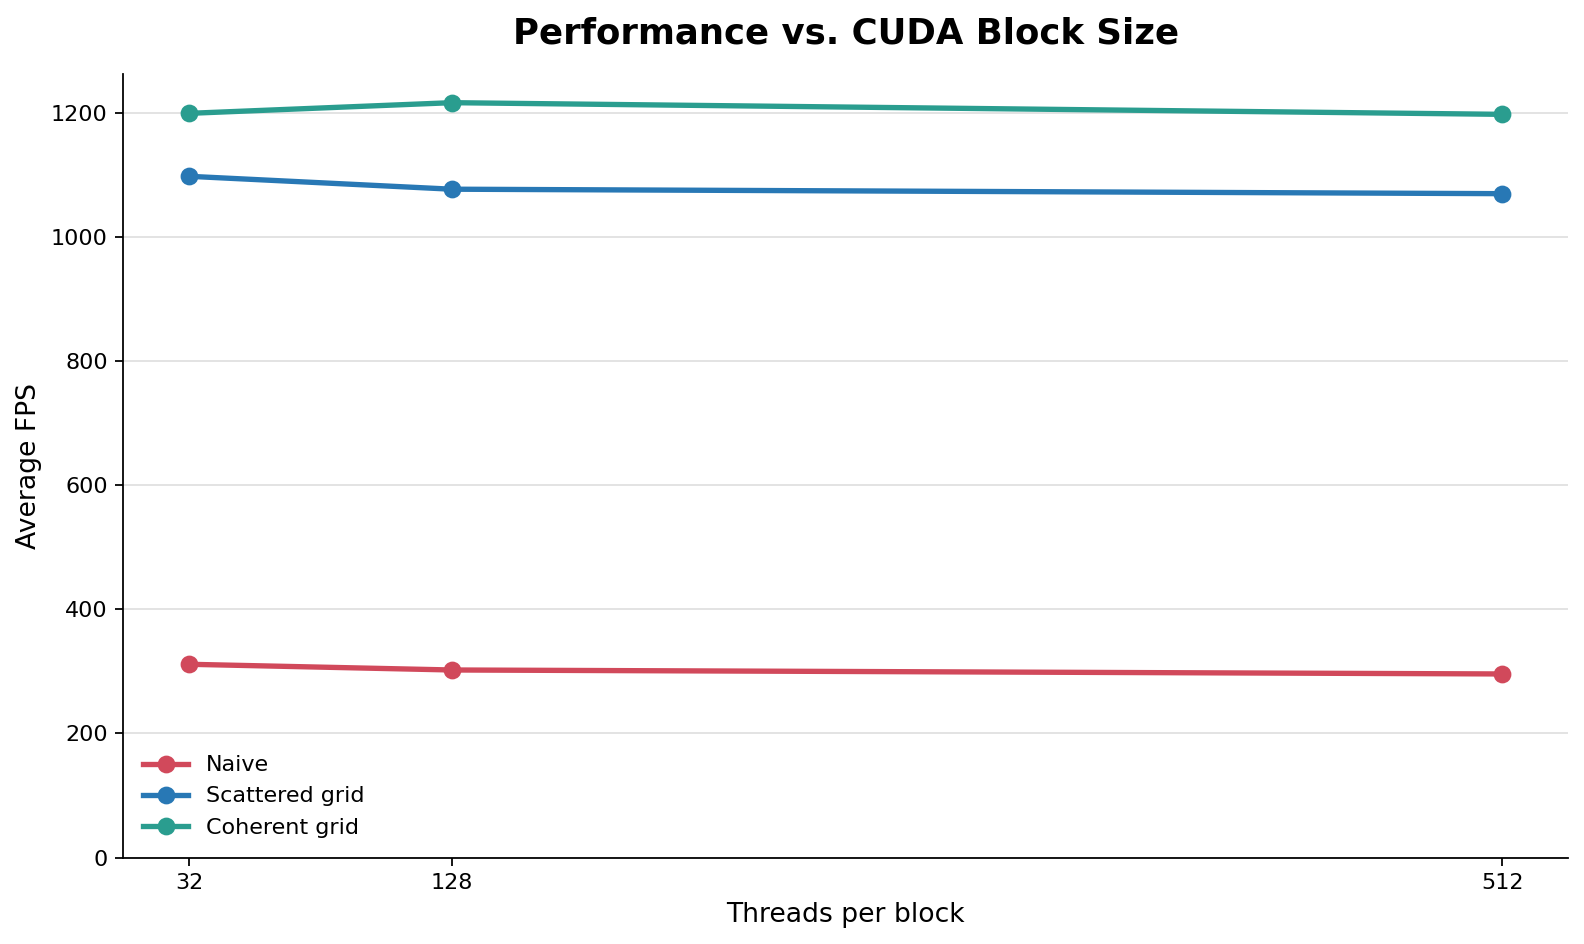
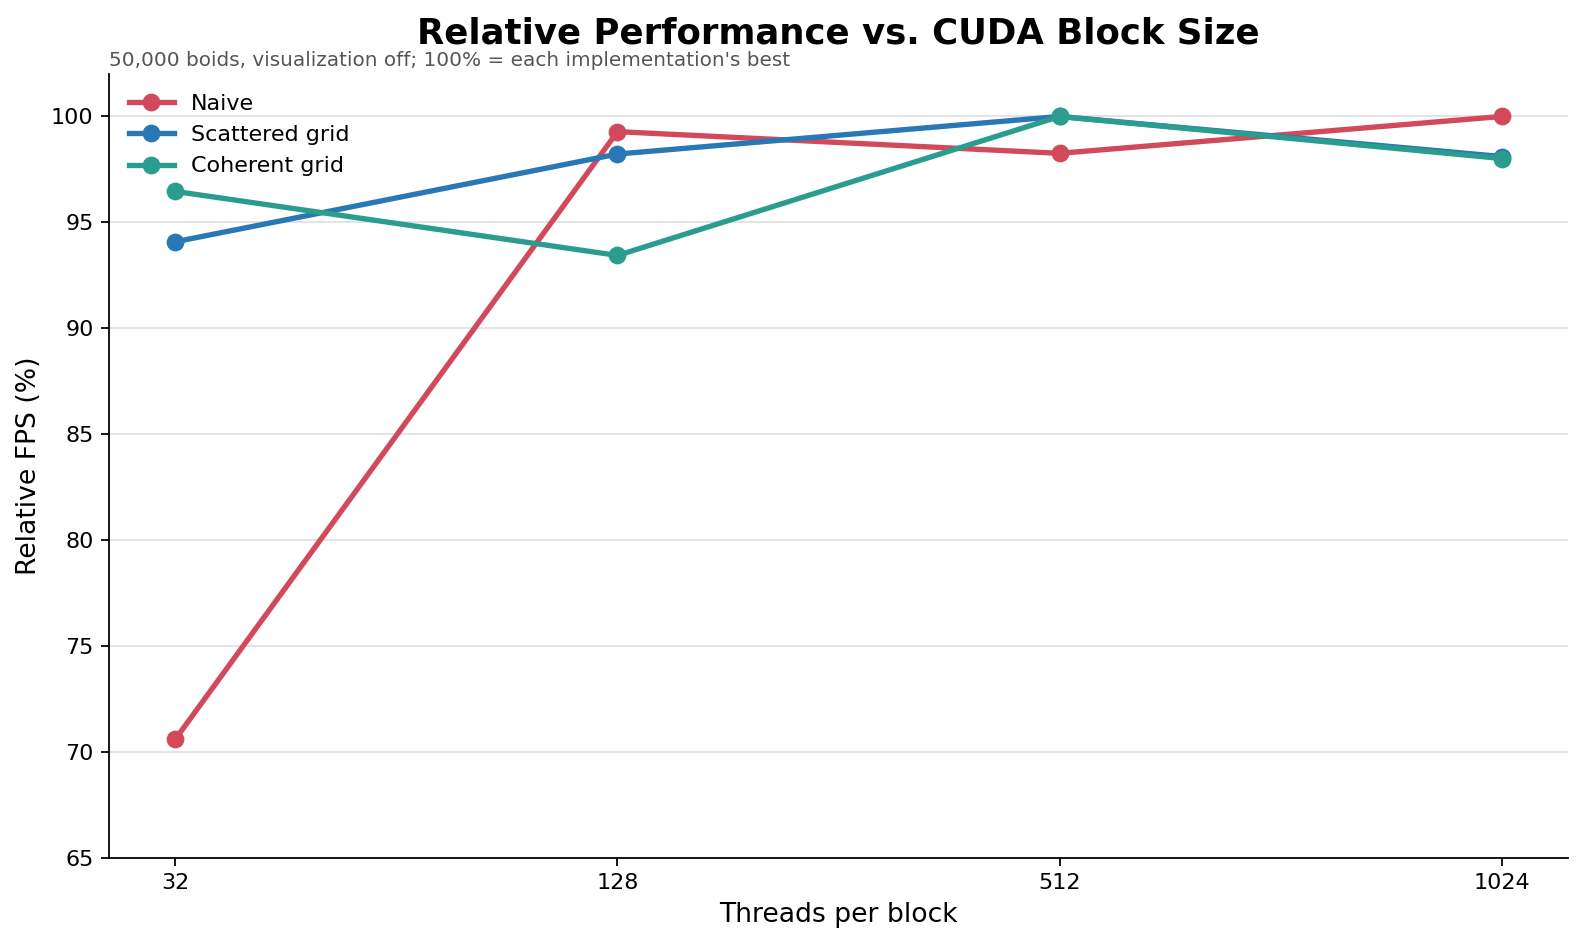
update the analysis

diff --git a/README.md b/README.md
@@ -14,83 +14,87 @@ This project implements Reynolds-style boid flocking with CUDA using cohesion, s
 - **Scattered grid:** boids are grouped by grid cell using sorted indices, but their position and velocity data remain scattered.
 - **Coherent grid:** position and velocity data are reordered by grid cell for more contiguous memory access.
 
+Separate input and output velocity buffers ensure that every boid reads a consistent state during each simulation step.
+
 ## Performance Analysis
 
 ### Methodology
 
-- Release x64
-- VSync and NVIDIA Max Frame Rate disabled
-- Five FPS readings averaged per configuration
-- Default block size: 128
-- Time step: 0.2
-- Fixed window size and camera
+- Build configuration: **Release x64**
+- Vertical synchronization: **Off**
+- NVIDIA Max Frame Rate: **Off**
+- Time step: **0.2**
+- Default block size: **128 threads**
+- Default grid configuration: **8-cell search with cell width $2r$**
+- The scaling graphs use one stabilized FPS reading per configuration after warm-up.
+- All comparisons used the same machine and executable window size.
 
-### Boid Count — Visualization Off
+### Effect of boid count without visualization
 
 ![Performance without visualization](images/performance_no_visualization.png)
 
-| Boids | Naive | Scattered | Coherent |
+| Boids | Naive FPS | Scattered FPS | Coherent FPS |
 |---:|---:|---:|---:|
-| 1,000 | 1093.8 | 1336.4 | 1434.2 |
-| 5,000 | 819.0 | 1145.2 | 1203.0 |
-| 20,000 | 302.2 | 1076.8 | 1216.2 |
+| 5,000 | 851.0 | 1144.0 | 1224.0 |
+| 10,000 | 519.0 | 1124.0 | 1205.0 |
+| 25,000 | 251.0 | 1063.0 | 1173.0 |
+| 50,000 | 102.0 | 860.0 | 1167.0 |
+| 100,000 | 25.2 | 589.0 | 1069.0 |
+| 200,000 | 8.2 | 281.0 | 634.0 |
+| 500,000 | 1.4 | 77.3 | 445.0 |
+| 1,000,000 | — | 20.6 | 187.0 |
 
-Naive performance decreases sharply as the number of boids increases because its neighbor search is $O(N^2)$. The grid methods scale better because each boid only checks nearby cells instead of the entire array.
+Naive performance decreases rapidly because doubling the boid count approximately quadruples the number of pairwise checks. The uniform-grid methods scale much better by limiting the search to nearby cells. They eventually slow as well because a fixed simulation volume causes more boids to occupy each cell. At one million boids, the coherent grid was about **9.1 times faster** than the scattered grid because its neighbor data is stored contiguously.
 
-From 1,000 to 20,000 boids, Naive FPS decreased by 72.4%, compared with 19.4% for Scattered and 15.2% for Coherent.
-
-### Boid Count — Visualization On
+### Effect of visualization
 
 ![Performance with visualization](images/performance_with_visualization.png)
 
-| Boids | Naive | Scattered | Coherent |
+| Boids | Naive FPS | Scattered FPS | Coherent FPS |
 |---:|---:|---:|---:|
-| 1,000 | 1028.0 | 950.8 | 938.8 |
-| 5,000 | 681.4 | 902.6 | 933.0 |
-| 20,000 | 257.2 | 845.0 | 912.0 |
+| 5,000 | 672.0 | 873.0 | 959.0 |
+| 10,000 | 414.0 | 824.0 | 955.0 |
+| 25,000 | 216.0 | 799.0 | 917.0 |
+| 50,000 | 95.4 | 675.0 | 924.0 |
+| 100,000 | 23.9 | 512.0 | 879.0 |
+| 200,000 | 7.6 | 241.0 | 554.0 |
+| 500,000 | 1.2 | 73.3 | 383.0 |
+| 1,000,000 | — | 20.2 | 151.8 |
 
-Visualization reduces FPS because every frame also copies simulation data to graphics buffers and renders the particles. At 1,000 boids, grid construction costs more than it saves. At larger boid counts, both grid methods outperform Naive.
+Visualization lowers FPS because each frame also updates the graphics buffer and renders the particles. The same overall trend remains: Naive search falls quickly, while both grid methods support much larger simulations. At high boid counts the coherent grid retains the largest advantage.
 
-### Block Size
+### Effect of block size and block count
 
-This test used 20,000 boids with visualization disabled.
+This experiment used **50,000 boids** with visualization disabled. The number of blocks is $\lceil N / \text{blockSize} \rceil$. The graph normalizes each implementation to its own fastest result so the effect of block size is visible despite the algorithms' different absolute framerates.
 
 ![Block size performance](images/block_size_performance.png)
 
-| Block Size | Block Count | Naive | Scattered | Coherent |
+| Threads per block | Block count | Naive FPS | Scattered FPS | Coherent FPS |
 |---:|---:|---:|---:|---:|
-| 32 | 625 | 311.4 | 1097.6 | 1199.0 |
-| 128 | 157 | 302.2 | 1076.8 | 1216.2 |
-| 512 | 40 | 295.8 | 1069.6 | 1197.4 |
+| 32 | 1563 | 68.9 | 795 | 1117 |
+| 128 | 391 | 96.9 | 830 | 1082 |
+| 512 | 98 | 95.9 | 845 | 1158 |
+| 1024 | 49 | 97.6 | 829 | 1135 |
 
-Block size had a relatively small effect compared with the neighbor-search algorithm. Naive and Scattered performed best at 32 threads, while Coherent performed best at 128. This likely reflects differences in occupancy, register use, and scheduling flexibility.
+The Naive implementation was substantially slower at 32 threads per block. The grid implementations changed by less than 7% across the tested sizes and both reached their highest FPS at 512 threads. Increasing the block size to 1024 provided no further improvement. A block size of 128 remains a reasonable default because it performs close to the best result for all three implementations.
 
-### Coherent vs. Scattered Grid
+### Coherent versus scattered grid
 
-At 20,000 boids, Coherent reached 1216.2 FPS compared with 1076.8 FPS for Scattered:
+In a five-run controlled test with 20,000 boids, visualization disabled, and block size 128, the coherent grid averaged **1216.2 FPS**, compared with **1076.8 FPS** for the scattered grid, an improvement of about **12.9%**.
 
-$$
-\frac{1216.2-1076.8}{1076.8}\times100\%
-\approx12.9\%
-$$
+This improvement was expected because boids in the same cell are contiguous and neighbor access no longer requires an extra particle-index lookup. The benefit is partially offset by the cost of rearranging the position and velocity arrays every frame.
 
-This improvement was expected because boids in the same cell are stored contiguously, improving memory locality and removing one level of indirection. However, Coherent also pays an additional cost to reorder position and velocity data each frame.
+### Eight-cell versus 27-cell search
 
-### 8-Cell vs. 27-Cell Search
+A separate five-run test used 20,000 boids, visualization disabled, and block size 128.
 
-This test used 20,000 boids, visualization disabled, and a block size of 128.
-
-| Configuration | Average FPS |
+| Grid configuration | Average FPS |
 |---|---:|
-| 8 cells, width $2r$ | 1123.8 |
-| 27 cells, width $r$ | 1224.2 |
+| 8 cells, cell width $2r$ | 1123.8 |
+| 27 cells, cell width $r$ | 1224.2 |
 
-The 27-cell version was approximately 8.9% faster. Although it checks more cells, those cells are smaller:
+The 27-cell version was approximately **8.9% faster**. Although it visits more cells, each cell is smaller. The eight-cell configuration examines a candidate volume proportional to $8(2r)^3 = 64r^3$, while the 27-cell configuration examines $27r^3$. In this test, reducing candidate boids and distance calculations outweighed the overhead of checking more cell ranges.
 
-$$
-8(2r)^3=64r^3,\qquad 27(r)^3=27r^3
-$$
-
-The smaller candidate volume reduced the number of boid distance checks enough to offset the additional cell accesses.
+## Build Notes
 
 **CMake modifications:** None.
